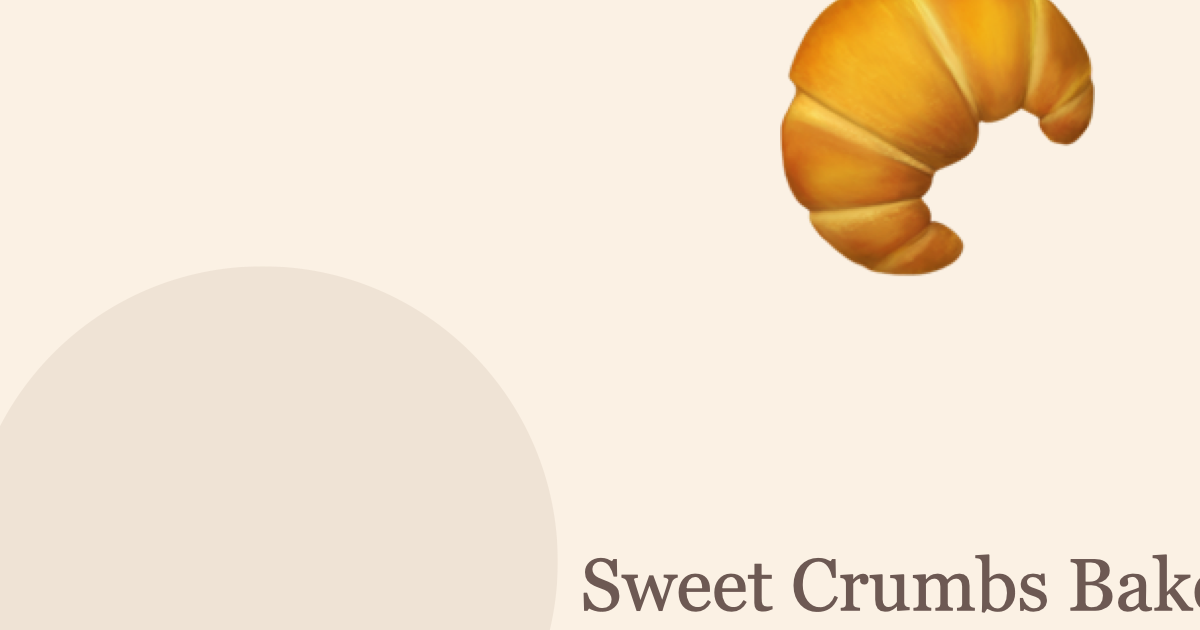
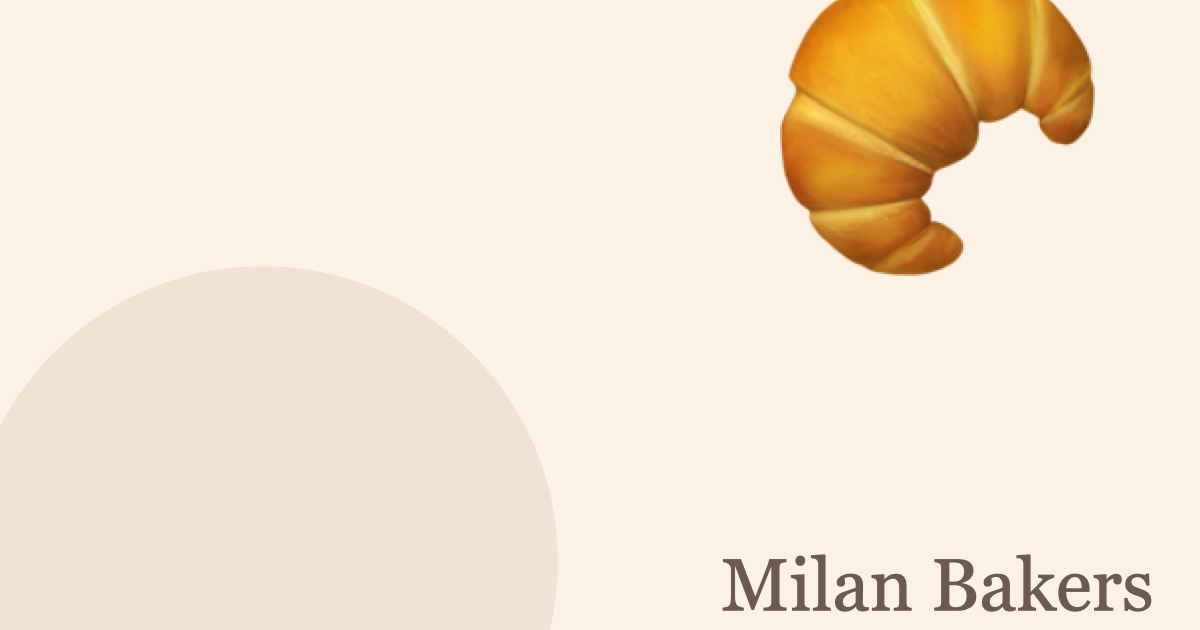
Rename bakery to Milan Bakers
Updates the display name, email, social handles, OG image label,
and README references from the placeholder "Sweet Crumbs Bakery"
to "Milan Bakers".

Changed region(s): [[0.4625, 0.8746, 1.0, 0.9952]]

diff --git a/README.md b/README.md
@@ -1,4 +1,4 @@
-# Sweet Crumbs Bakery — Website
+# Milan Bakers — Website
 
 A fast, mobile-first marketing site for a bakery, built with [Astro](https://astro.build).
 No backend, no database — all content lives in a few JSON files and the site is
@@ -183,12 +183,12 @@ cPanel host, etc.
 **Custom domain on GitHub Pages:**
 
 1. In the repo, go to **Settings → Pages → Custom domain** and enter your
-   domain (e.g. `www.sweetcrumbsbakery.in`).
+   domain (e.g. `www.milanbakers.in`).
 2. At your domain registrar, add a `CNAME` record pointing
    `www` → `<username>.github.io` (or `A` records to GitHub's IPs for an
    apex domain — see [GitHub's custom domain docs](https://docs.github.com/en/pages/configuring-a-custom-domain-for-your-github-pages-site)).
 3. Once the domain is verified, set `base: "/"` and `site:
-   "https://www.sweetcrumbsbakery.in"` in `astro.config.mjs`, commit, and
+   "https://www.milanbakers.in"` in `astro.config.mjs`, commit, and
    push.
 
 **Moving to another host (Netlify/Vercel/own server):**
